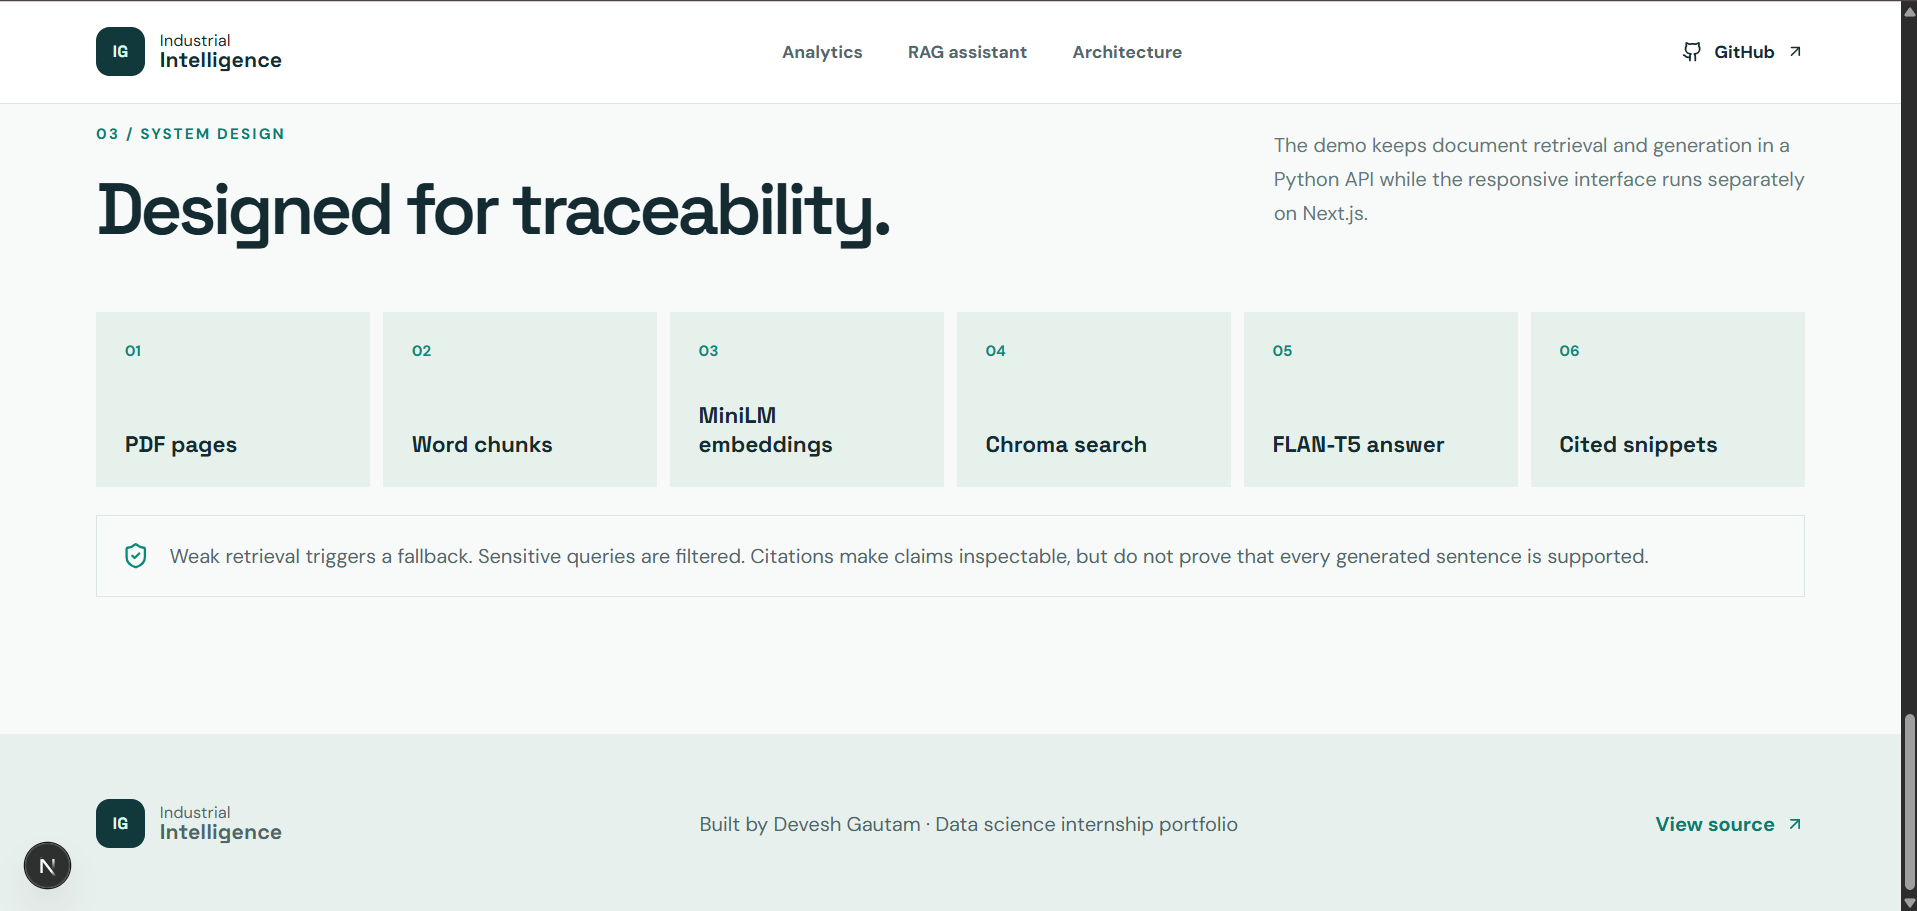
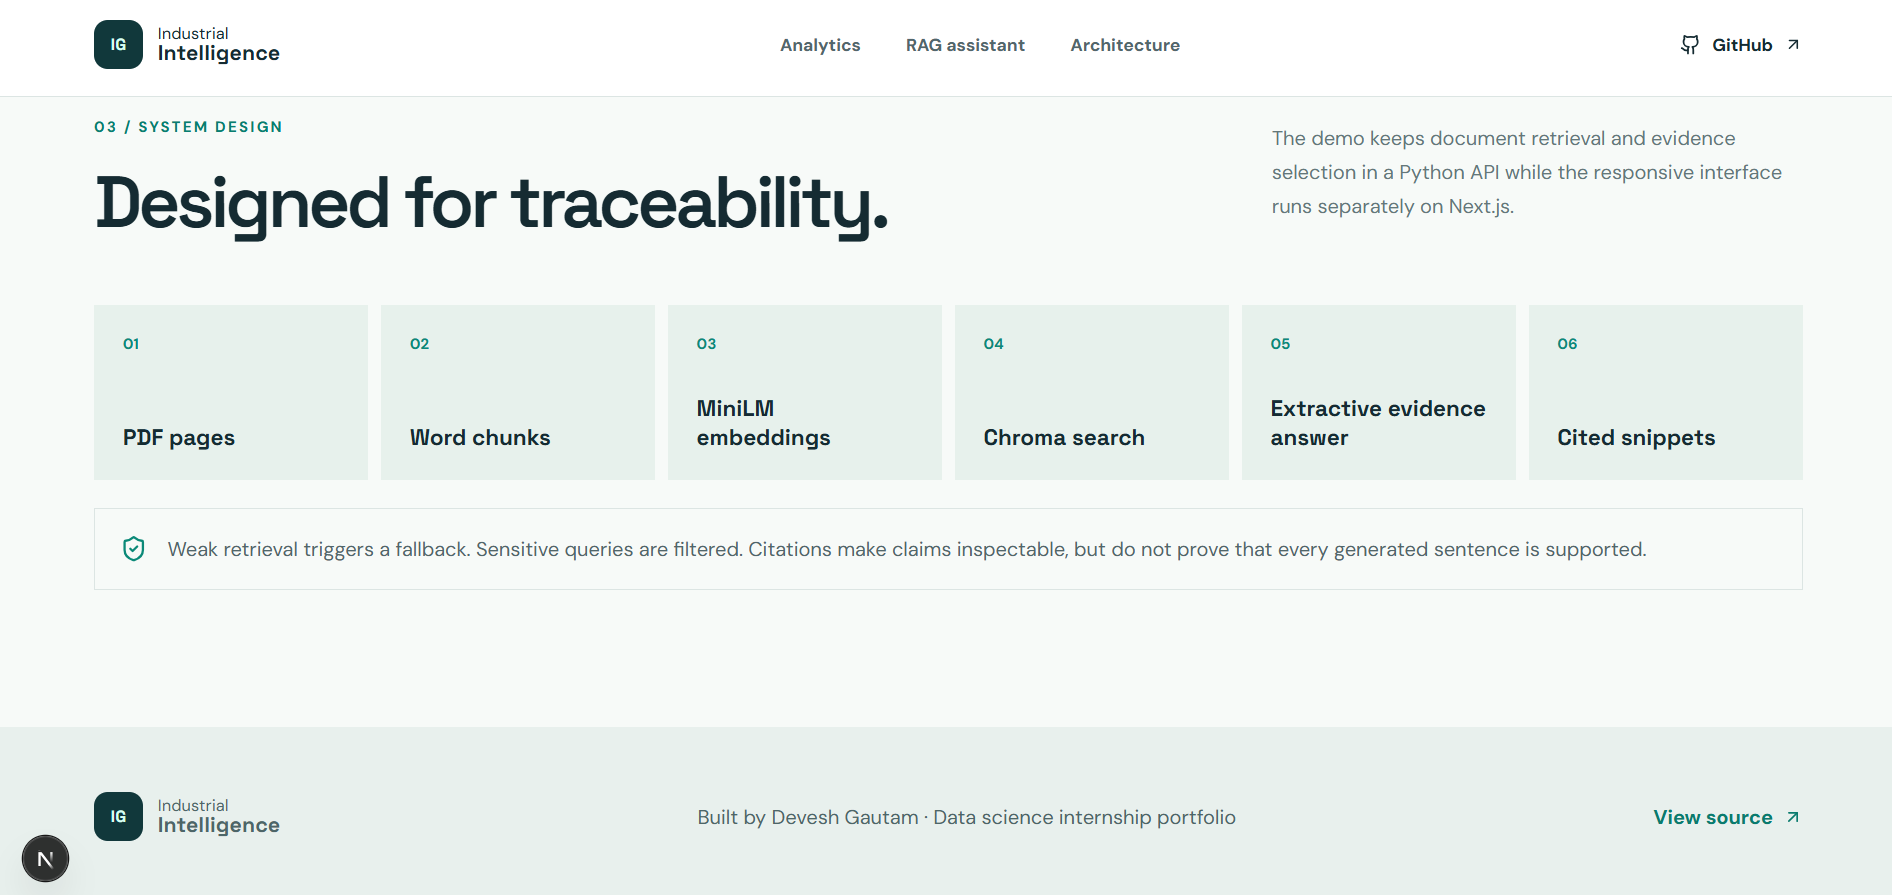
Correct architecture showcase and RAG wording

diff --git a/README.md b/README.md
@@ -56,7 +56,7 @@ The assistant demonstrates natural-language technical questions, retrieved answe
 
 ### 4. System Architecture & Retrieval Pipeline
 
-This section shows the retrieval workflow from PDF pages to word chunks, isolated HashEmbedder or MiniLM indexes, Chroma search, extractive evidence selection and cited snippets. The standalone CLI's optional FLAN-T5 path is local-only and is not used by the current API or public deployment.
+This section shows the retrieval workflow from PDF pages to word chunks, isolated HashEmbedder or MiniLM indexes, Chroma search, extractive evidence selection and cited snippets. The current API and public deployment use evidence-based extractive answers; no generative model is deployed.
 
 ![System architecture and document retrieval pipeline](docs/screenshots/system-architecture.png)
 
@@ -71,7 +71,7 @@ Industrial sensor histories are irregular and lack reliable event labels. Operat
 | Builds a strict five-minute timeline and audits missing values | Extracts text page by page from PDFs |
 | Finds low-temperature/low-draft periods with an explicit proxy rule | Splits pages into overlapping chunks and embeds them with MiniLM |
 | Clusters active sensor readings with K-means | Searches a local Chroma vector index |
-| Detects anomalies separately within each cluster | Full local mode uses FLAN-T5-small; Render Free uses a labeled lightweight extractive mode, with filename, page and snippet |
+| Detects anomalies separately within each cluster | Full local mode supports the same cited retrieval pipeline; Render Free uses a labeled lightweight extractive mode, with filename, page and snippet |
 | Compares persistence and a 12-step random forest on later data | Falls back when retrieval is weak and filters selected sensitive queries |
 
 ## Measured Task 1 results
@@ -94,7 +94,7 @@ flowchart LR
   D --> E[Local Chroma index]
   Q[Question] --> E
   E --> F[Distance filter]
-  F --> G[FLAN-T5-small]
+  F --> G[Extractive evidence answer]
   G --> H[Answer + page snippets]
   M[Private workbook] --> N[Offline Python analysis]
   N --> O[Approved aggregate metrics]
@@ -158,8 +158,7 @@ Dockerfile            Render Docker deployment entry point
 
 The current FastAPI `/ask` implementation returns extractive, evidence-based
 answers in both lightweight and semantic retrieval modes. The standalone local
-CLI retains an optional FLAN-T5 generation path for a suitably provisioned
-machine; FLAN-T5 is not used by the public Render deployment.
+The current CLI and API use evidence-based extractive answers; no generative model is used by the public Render deployment.
 
 The project has two execution environments. The public frontend is deployed on
 Vercel and the public FastAPI backend is hosted on Render. Render Free provides
@@ -177,7 +176,7 @@ The complete local implementation processes all 11 supplied technical PDFs:
 execution provides technical-document retrieval, filename/page citations and
 evidence-based abstention when the corpus lacks sufficient support. The current
 API answer path is extractive evidence selection; it does not claim that
-FLAN-T5 or another generative LLM is running.
+No generative LLM is running in the current API or public deployment.
 
 For the complete local API, keep the authorized PDFs in
 `Task2/prototype/docs/` and run:
